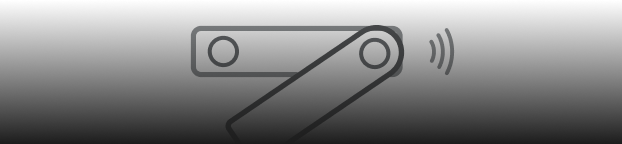
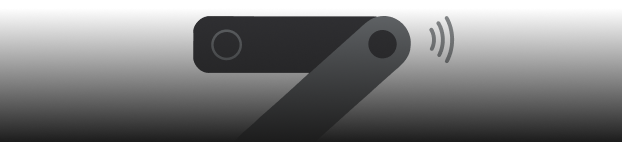
feat: update ImportSigners feature with new wallet connection options and replace Metamask image
- Added new ConnectWalletApp image for wallet connection.
- Removed Metamask image from the project.
- Enhanced ImportSignersContainer to support wallet connection via WalletConnect.
- Updated item descriptions and titles for clarity in the signer import process.
- Introduced new SignerType enum for better type management in signersSlice.

Changed region(s): [[0.3055, 0.1127, 0.7331, 0.8732]]

diff --git a/apps/mobile/src/features/ImportSigners/ImportSigners.container.tsx b/apps/mobile/src/features/ImportSigners/ImportSigners.container.tsx
@@ -1,55 +1,90 @@
-import React, { useMemo } from 'react'
+import React, { useCallback, useEffect, useMemo, useRef } from 'react'
 import { ScrollView } from 'react-native'
 import Seed from '@/assets/images/seed.png'
 import Wallet from '@/assets/images/wallet.png'
-import Metamask from '@/assets/images/metamask.png'
+import ConnectWalletApp from '@/assets/images/connect-wallet-app.png'
 import { SafeFontIcon } from '@/src/components/SafeFontIcon'
 import { useScrollableHeader } from '@/src/navigation/useScrollableHeader'
 import { NavBarTitle, SectionTitle } from '@/src/components/Title'
 import { SafeCard } from '@/src/components/SafeCard'
 import { router } from 'expo-router'
-import { Tag } from '@/src/components/Tag'
 import { useBiometrics } from '@/src/hooks/useBiometrics'
 import { View } from 'tamagui'
+import { useAccount, useAppKit, useWalletInfo } from '@reown/appkit-react-native'
+import { useAppDispatch, useAppSelector } from '@/src/store/hooks'
+import { addSignerWithEffects } from '@/src/store/signerThunks'
+import { selectSignerByAddress, SignerType } from '@/src/store/signersSlice'
+import { getAddress } from 'ethers'
 
-const items = [
-  {
-    name: 'seed',
-    title: 'Import signer',
-    description: 'Enter a private key or seed phrase.',
-    icon: <SafeFontIcon name="wallet" size={16} />,
-    Image: Seed,
-    imageProps: { marginBottom: -31 },
-    onPress: () => router.push(`/import-signers/signer`),
-  },
-  {
-    name: 'hardwareSigner',
-    title: 'Import hardware signer',
-    description: 'Use your Ledger device.',
-    icon: <SafeFontIcon name="hardware" size={16} />,
-    Image: Wallet,
-    onPress: () => router.push('/import-signers/hardware-devices'),
-  },
-  {
-    name: 'connectSigner',
-    title: 'Connect signer',
-    description: 'Connect any signer via one of your installed wallet apps.',
-    icon: <SafeFontIcon name="add-owner" size={16} />,
-    tag: <Tag>Coming soon</Tag>,
-    Image: Metamask,
-    imageProps: { marginBottom: -48 },
-  },
-]
-
-const title = 'Import a signer'
+const title = 'Add signer'
 
 export const ImportSignersContainer = () => {
   const { isBiometricsEnabled } = useBiometrics()
+  const dispatch = useAppDispatch()
+  const { open } = useAppKit()
+  const { address, isConnected } = useAccount()
+  const { walletInfo } = useWalletInfo()
+  const existingSigner = useAppSelector((state) => (address ? selectSignerByAddress(state, address) : undefined))
+  const registeredRef = useRef<string | null>(null)
+
   const { handleScroll } = useScrollableHeader({
     children: <NavBarTitle paddingRight={5}>{title}</NavBarTitle>,
   })
 
+  useEffect(() => {
+    if (!isConnected || !address || existingSigner || registeredRef.current === address) {
+      return
+    }
+
+    registeredRef.current = address
+
+    dispatch(
+      addSignerWithEffects({
+        value: getAddress(address),
+        name: walletInfo?.name ?? null,
+        logoUri: walletInfo?.icon ?? null,
+        type: SignerType.WALLETCONNECT,
+        walletName: walletInfo?.name,
+        walletIcon: walletInfo?.icon,
+      }),
+    )
+  }, [isConnected, address, existingSigner, walletInfo, dispatch])
+
+  const handleConnectSigner = useCallback(() => {
+    open({ view: 'Connect' })
+  }, [open])
+
   const memoizedItems = useMemo(() => {
+    const items = [
+      {
+        name: 'seed',
+        title: 'Import using private key',
+        description: 'Store a private key on this device to sign transactions.',
+        icon: <SafeFontIcon name="keyboard" size={16} />,
+        Image: Seed,
+        imageProps: { marginBottom: -31 },
+        onPress: () => router.push('/import-signers/signer'),
+      },
+      {
+        name: 'hardwareSigner',
+        title: 'Connect hardware device',
+        description: 'Connect hardware device to sign transactions.',
+        icon: <SafeFontIcon name="hardware" size={16} />,
+        Image: Wallet,
+        imageProps: { marginBottom: -32 },
+        onPress: () => router.push('/import-signers/hardware-devices'),
+      },
+      {
+        name: 'connectSigner',
+        title: 'Connect wallet app',
+        description: 'Connect an external wallet app to sign transactions.',
+        icon: <SafeFontIcon name="dapp-logo" size={16} />,
+        Image: ConnectWalletApp,
+        imageProps: { marginBottom: -32 },
+        onPress: handleConnectSigner,
+      },
+    ]
+
     return items.map((item) => {
       const newItem = { ...item }
 
@@ -65,15 +100,12 @@ export const ImportSignersContainer = () => {
 
       return newItem
     })
-  }, [isBiometricsEnabled])
+  }, [isBiometricsEnabled, handleConnectSigner])
 
   return (
     <View flex={1}>
       <ScrollView onScroll={handleScroll}>
-        <SectionTitle
-          title={title}
-          description="Select how you'd like to import your signer. Ensure it belongs to this Safe account so you can interact with it seamlessly."
-        />
+        <SectionTitle title={title} description="Select how you'd like to add your signer." />
 
         {memoizedItems.map((item, index) => (
           <SafeCard
@@ -82,7 +114,6 @@ export const ImportSignersContainer = () => {
             key={`${item.name}-${index}`}
             title={item.title}
             description={item.description}
-            tag={item.tag}
             icon={item.icon}
             image={item.Image}
             imageProps={item.imageProps}

diff --git a/apps/mobile/src/store/signersSlice.ts b/apps/mobile/src/store/signersSlice.ts
@@ -4,15 +4,26 @@ import { AddressInfo } from '@safe-global/store/gateway/AUTO_GENERATED/transacti
 import { RootState } from '@/src/store'
 import logger from '@/src/utils/logger'
 
+export enum SignerType {
+  PRIVATE_KEY = 'private-key',
+  LEDGER = 'ledger',
+  WALLETCONNECT = 'walletconnect',
+}
+
 export type Signer = AddressInfo &
   (
     | {
-        type: 'private-key'
+        type: SignerType.PRIVATE_KEY
         derivationPath?: never
       }
     | {
-        type: 'ledger'
+        type: SignerType.LEDGER
         derivationPath: string
+      }
+    | {
+        type: SignerType.WALLETCONNECT
+        walletName?: string
+        walletIcon?: string
       }
   )
 
